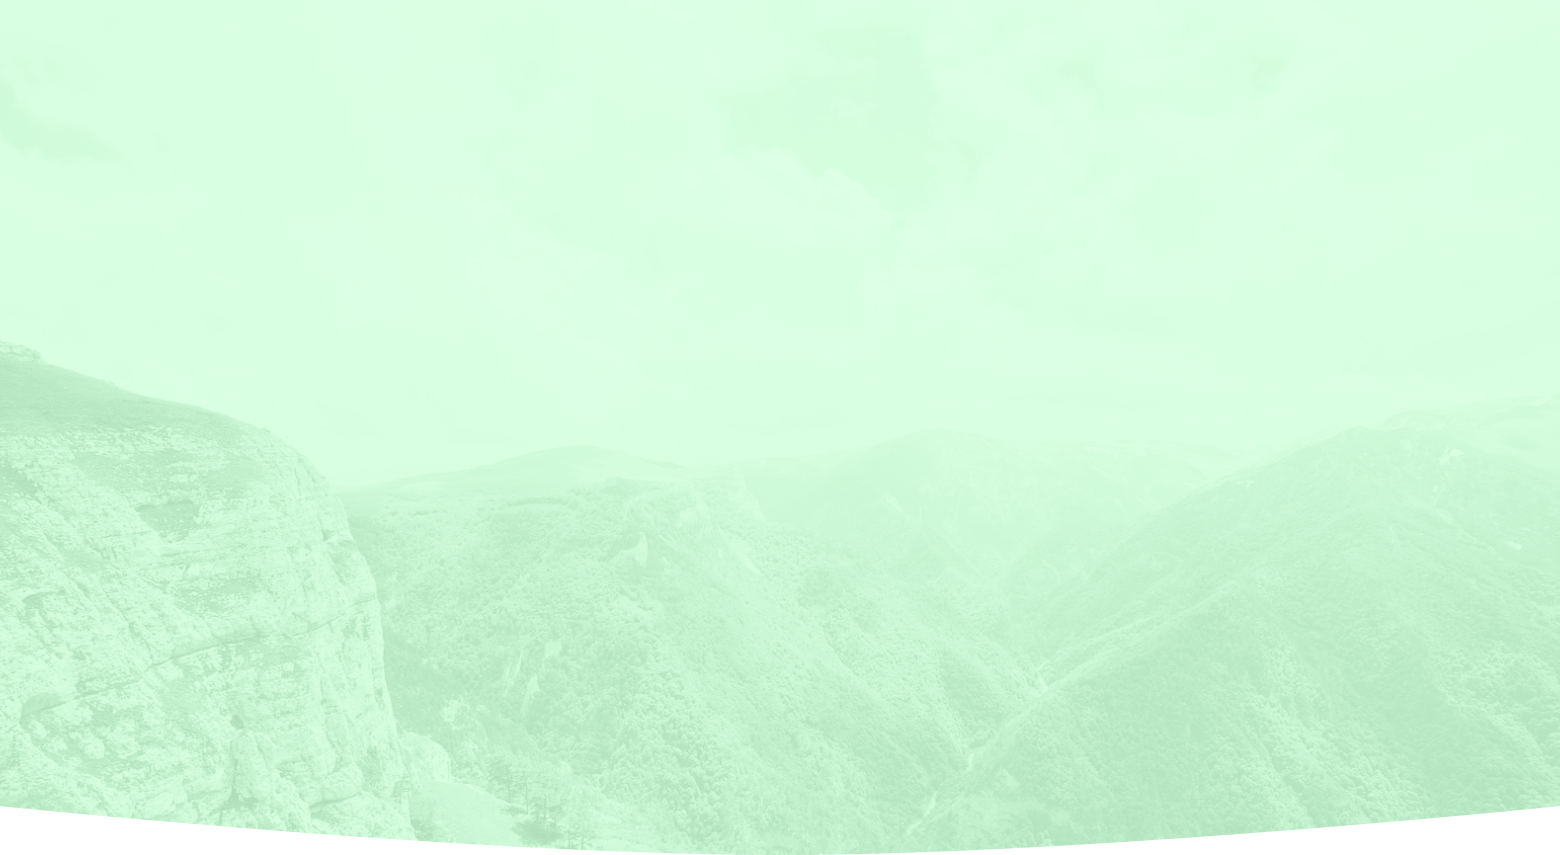
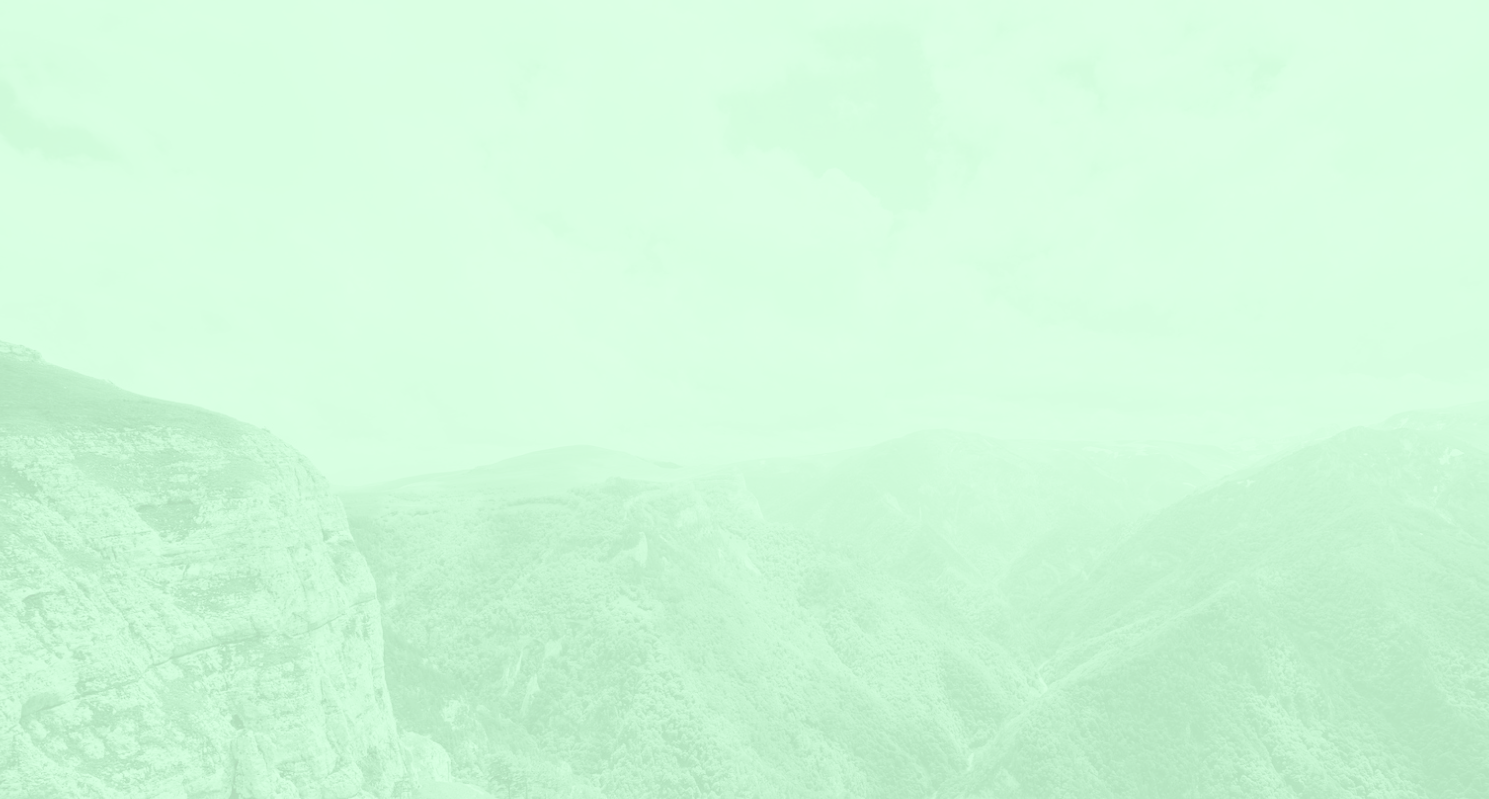
[UPDATE/FIX] Обновление картинки в главной секции, исправление позиции картинки на главной

diff --git a/app/scss/style.scss b/app/scss/style.scss
@@ -435,7 +435,7 @@ section {
   overflow: hidden;
 
   &-backgound {
-    margin-left: -20px;
+    left: 0;
     position: absolute;
     width: 100%;
     height: 100%;
